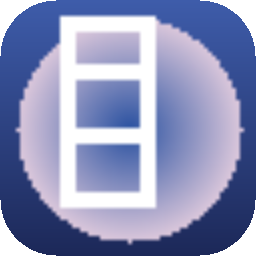
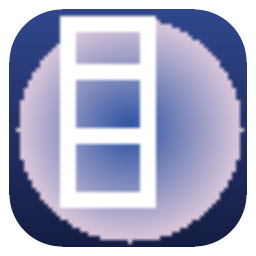
fix(spk): 修复 DSM 7 主菜单应用入口缺失与图标抗锯齿（1.0.11-0001）

diff --git a/docs/index.html b/docs/index.html
@@ -51,6 +51,7 @@
 <table>
   <tr><th>你的机型</th><th>要填的「位置」</th></tr>
   <tr><td>Intel / AMD 64 位机型（apollolake、avoton、braswell、broadwell、bromolow、cedarview、coffeelake、denverton、geminilake、grantley、kvmx64、purley、skylaked、v1000 等）</td><td><code>https://kosje.github.io/agnes-hub-go-DSM/catalog.json</code></td></tr>
+  <tr><td>ARM64 机型（rtd1296、rtd1619、rtd1619b、armada37xx，如 DS223 / DS423 系列）</td><td><code>https://kosje.github.io/agnes-hub-go-DSM/catalog-armv8.json</code></td></tr>
 </table>
 <ol start="5">
   <li>点 <strong>确定</strong></li>
@@ -70,7 +71,8 @@
 <h2>当前版本</h2>
 <table>
   <tr><th>套件</th><th>版本</th><th>架构</th><th>大小</th><th>MD5</th></tr>
-  <tr><td>agnes-hub</td><td>1.0.9-0003</td><td>x86_64</td><td>2.79 MB</td><td><code>c440a30215fb11e94a536bd312be287c</code></td></tr>
+  <tr><td>agnes-hub</td><td>1.0.11-0001</td><td>armv8</td><td>3.15 MB</td><td><code>46f1240bded99a900e103ffea57adddd</code></td></tr>
+  <tr><td>agnes-hub</td><td>1.0.11-0001</td><td>x86_64</td><td>3.49 MB</td><td><code>fb521b1071cac981c43232a4d594627f</code></td></tr>
 </table>
 
 <h2>安装后</h2>
@@ -89,7 +91,8 @@
 
 <h2>手动下载</h2>
 <p>不想加套件源的话，直接下这个文件，再用「套件中心 → 手动安装」装：</p>
-<p><a href="https://kosje.github.io/agnes-hub-go-DSM/agnes-hub-x86_64-1.0.9-0003.spk"><code>agnes-hub-x86_64-1.0.9-0003.spk</code></a>（x86_64，2.79 MB）</p>
+<p><a href="https://kosje.github.io/agnes-hub-go-DSM/agnes-hub-armv8-1.0.11-0001.spk"><code>agnes-hub-armv8-1.0.11-0001.spk</code></a>（armv8，3.15 MB）<br>
+<a href="https://kosje.github.io/agnes-hub-go-DSM/agnes-hub-x86_64-1.0.11-0001.spk"><code>agnes-hub-x86_64-1.0.11-0001.spk</code></a>（x86_64，3.49 MB）</p>
 <p class="sub">这些链接指向本站（GitHub Pages），不经过 GitHub Release 的跳转 ——
 国内网络访问 Release 下载地址常会失败。</p>
 

diff --git a/tools/build_spk.py b/tools/build_spk.py
@@ -46,6 +46,7 @@ import contextlib
 import gzip
 import io
 import json
+import math
 import os
 import re
 import shutil
@@ -97,7 +98,7 @@ PACKAGE_ARCHES = {
 }
 
 # 每次发布 SPK 都必须递增。仍可用 SPK_BUILD 临时覆盖。
-DEFAULT_SPK_BUILD = "2"
+DEFAULT_SPK_BUILD = "1"
 
 DESCRIPTION = (
     "Agnes AI 多账号聚合中转 + RPM 限流排队网关。统一模型 agnes-auto 自动判定"
@@ -239,8 +240,14 @@ esac
 # 安装后建数据目录。群晖在升级时保留 var/，只有卸载才删除整个套件目录。
 POSTINST = '''#!/bin/sh
 PKG_NAME="%APP_ID%"
+PKG_DIR="${SYNOPKG_PKGDEST:-/var/packages/$PKG_NAME/target}"
 VAR_DIR="${SYNOPKG_PKGVAR:-/var/packages/$PKG_NAME/var}"
 mkdir -p "$VAR_DIR/data" 2>/dev/null || true
+
+# 确保 target/ui 与系统 3rdparty 快捷方式软链接建立，保障 DSM 主菜单图标即时出现
+if [ -d "$PKG_DIR/ui" ] && [ -d /usr/syno/synoman/webman/3rdparty ]; then
+  ln -sfn "$PKG_DIR/ui" "/usr/syno/synoman/webman/3rdparty/$PKG_NAME" 2>/dev/null || true
+fi
 exit 0
 '''
 
@@ -474,49 +481,59 @@ def _key_out_black(w, h, px, threshold=16):
     return out
 
 
-# App 图标底色：取自 logo 自身的深蓝色系（最饱和像素是 rgb(46,84,162)）。
+# App 图标底色：取自 logo 自身的深蓝色系（上 rgb(48,70,140) → 下 rgb(20,28,65)）。
 # 上游 logo 是「浅紫渐变圆 + 白色元素」，本来就是配黑底设计的，直接透明化后在
-# DSM 的浅色界面上白色元素会完全消失。补一层圆角方底既保住对比，又符合 App
-# 图标的常见形态。
-ICON_BG_TOP = (62, 92, 170)
-ICON_BG_BOTTOM = (28, 40, 88)
+# DSM 的浅色界面上白色元素会完全消失。补一层微带呼吸内边距和平滑抗锯齿的圆角方底既保住对比，
+# 又完全符合 DSM 桌面 / 套件中心 App 图标规范。
+ICON_BG_TOP = (48, 70, 140)
+ICON_BG_BOTTOM = (20, 28, 65)
 ICON_CORNER_RADIUS = 0.22
 
 
 def _app_icon(w, h, px):
-    """把透明底的 logo 合成到圆角方形底色上，产出可直接使用的 App 图标。
+    """把透明底的 logo 合成到带平滑抗锯齿的圆角方形底色上，产出可直接使用的 App 图标。"""
+    pad = max(1, int(round(min(w, h) * 0.035)))
+    eff_w = w - pad * 2
+    eff_h = h - pad * 2
+    rad = max(1.0, min(eff_w, eff_h) * ICON_CORNER_RADIUS)
 
-    只在「源图无 alpha、靠键控去背」时调用：那种情况下 logo 的原设计对比度
-    依赖黑底，透明化后在浅色界面上不可辨。
-    """
-    rad = max(1, int(min(w, h) * ICON_CORNER_RADIUS))
     out = bytearray(w * h * 4)
     for y in range(h):
-        # 竖直渐变
-        t = y / max(1, h - 1)
-        br = int(round(ICON_BG_TOP[0] + (ICON_BG_BOTTOM[0] - ICON_BG_TOP[0]) * t))
-        bg = int(round(ICON_BG_TOP[1] + (ICON_BG_BOTTOM[1] - ICON_BG_TOP[1]) * t))
-        bb = int(round(ICON_BG_TOP[2] + (ICON_BG_BOTTOM[2] - ICON_BG_TOP[2]) * t))
         for x in range(w):
-            # 圆角：四个角各取一个圆心做距离判断
-            cx = cy = None
-            if x < rad and y < rad:
-                cx, cy = rad, rad
-            elif x >= w - rad and y < rad:
-                cx, cy = w - rad - 1, rad
-            elif x < rad and y >= h - rad:
-                cx, cy = rad, h - rad - 1
-            elif x >= w - rad and y >= h - rad:
-                cx, cy = w - rad - 1, h - rad - 1
-            if cx is not None and (x - cx) ** 2 + (y - cy) ** 2 > rad * rad:
+            if x < pad or x >= w - pad or y < pad or y >= h - pad:
                 continue
+
+            rx = x - pad
+            ry = y - pad
+            t = ry / max(1, eff_h - 1)
+            br = int(round(ICON_BG_TOP[0] + (ICON_BG_BOTTOM[0] - ICON_BG_TOP[0]) * t))
+            bg = int(round(ICON_BG_TOP[1] + (ICON_BG_BOTTOM[1] - ICON_BG_TOP[1]) * t))
+            bb = int(round(ICON_BG_TOP[2] + (ICON_BG_BOTTOM[2] - ICON_BG_TOP[2]) * t))
+
+            cx = cy = None
+            if rx < rad and ry < rad:
+                cx, cy = rad, rad
+            elif rx >= eff_w - rad and ry < rad:
+                cx, cy = eff_w - rad - 1, rad
+            elif rx < rad and ry >= eff_h - rad:
+                cx, cy = rad, eff_h - rad - 1
+            elif rx >= eff_w - rad and ry >= eff_h - rad:
+                cx, cy = eff_w - rad - 1, eff_h - rad - 1
+
+            corner_alpha = 1.0
+            if cx is not None:
+                d = math.hypot(rx - cx, ry - cy)
+                if d > rad + 0.5:
+                    continue
+                elif d > rad - 0.5:
+                    corner_alpha = max(0.0, min(1.0, rad + 0.5 - d))
 
             i = (y * w + x) * 4
             a = px[i + 3] / 255.0
             out[i] = int(round(px[i] * a + br * (1 - a)))
             out[i + 1] = int(round(px[i + 1] * a + bg * (1 - a)))
             out[i + 2] = int(round(px[i + 2] * a + bb * (1 - a)))
-            out[i + 3] = 255
+            out[i + 3] = int(round(255 * corner_alpha))
     return out
 
 
@@ -620,14 +637,17 @@ def _add_dir_recursive(tar, full, arc, exec_prefixes=("scripts/",)):
             _add_file(tar, cfull, carc, mode)
 
 
-def build_package_tgz(binary_path, out_path):
-    """内层 package.tgz：只放本架构的二进制，解压后位于 SYNOPKG_PKGDEST 根下。
+def build_package_tgz(binary_path, ui_dir, out_path):
+    """内层 package.tgz：放本架构的二进制及 DSM UI 目录，解压后位于 SYNOPKG_PKGDEST 根下。
 
-    群晖官方明确要求不要把多平台二进制打进同一个 spk，所以这里只有一份。
+    群晖官方规范要求：dsmuidir="ui" 指向 package.tgz 解压到 target 后的相对目录，
+    DSM 安装服务据此将 target/[dsmuidir] 链接到 /usr/syno/synoman/webman/3rdparty/ 下以显示主菜单图标。
     """
     buf = io.BytesIO()
     with _tar_gz_writer(buf) as tar:
         _add_file(tar, binary_path, "agnes-hub-go", mode=0o755)
+        if os.path.isdir(ui_dir):
+            _add_dir_recursive(tar, ui_dir, "ui")
     data = buf.getvalue()
     with open(out_path, "wb") as f:
         f.write(data)
@@ -700,12 +720,36 @@ def prepare_arch(arch, binary_src, spk_ver, icon_src):
     for sub in (scripts_dir, conf_dir):
         os.makedirs(sub, exist_ok=True)
 
-    # 1. 内层包
+    # 1. DSM 桌面图标（ui/）
+    #    只有 INFO 里的 dsmuidir/dsmappname 还不够，必须有 ui/config 把这个
+    #    「应用」定义出来 —— 且该目录必须打进 package.tgz（由 dsmuidir="ui" 指定并由 DSM 软链接），
+    #    这样安装后 DSM 桌面和主菜单上才能正常显示图标和快捷方式。
+    #    图标要成套给：参考的真实套件（synoedit / wol-spk）都提供 16/24/32/48/
+    #    64/72/128/256 多种尺寸，config 里用 images/icon_{0}.png 让 DSM 按需取。
+    ui_dir = os.path.join(d, "ui")
+    ui_images = os.path.join(ui_dir, "images")
+    os.makedirs(ui_images, exist_ok=True)
+    make_icon_set(icon_src, [(n, os.path.join(ui_images, "icon_%d.png" % n))
+                             for n in DSM_ICON_SIZES])
+    with open(os.path.join(ui_dir, "config"), "w", encoding="utf-8", newline="\n") as f:
+        json.dump({".url": {DSM_APP_NAME: {
+            "title": "Agnes Hub",
+            "desc": "Agnes AI 多账号聚合中转 + RPM 限流排队网关",
+            "icon": "images/icon_{0}.png",
+            "type": "url",
+            "protocol": "http",
+            "port": str(SERVICE_PORT),
+            "url": DSM_APP_URL,
+            "allUsers": True,
+        }}}, f, ensure_ascii=False, indent=4)
+        f.write("\n")
+
+    # 2. 内层包：包含二进制以及 ui/ 目录
     pkg_tgz = os.path.join(d, "package.tgz")
-    pkg_data = build_package_tgz(binary_src, pkg_tgz)
+    pkg_data = build_package_tgz(binary_src, ui_dir, pkg_tgz)
     md5 = hashlib.md5(pkg_data).hexdigest()
 
-    # 2. 生命周期脚本：六个钩子必须全部存在，缺一个会被判「套件损坏」
+    # 3. 生命周期脚本：六个钩子必须全部存在，缺一个会被判「套件损坏」
     _write(os.path.join(scripts_dir, "start-stop-status"),
            START_STOP_STATUS.replace("%APP_ID%", APP_ID).replace("%PORT%", str(SERVICE_PORT)))
     _write(os.path.join(scripts_dir, "postinst"), POSTINST.replace("%APP_ID%", APP_ID))
@@ -713,7 +757,7 @@ def prepare_arch(arch, binary_src, spk_ver, icon_src):
     for name in ("preinst", "preuninst", "postuninst", "preupgrade"):
         _write(os.path.join(scripts_dir, name), TRIVIAL)
 
-    # 3. conf：privilege 决定运行身份，缺失会被拒绝安装。
+    # 4. conf：privilege 决定运行身份，缺失会被拒绝安装。
     #    run-as: package = 以套件专用账户运行（非 root）。本服务监听 4142（>1024）、
     #    不需要 chown 系统文件，因此完全不需要 root，符合最小权限。
     with open(os.path.join(conf_dir, "privilege"), "w", encoding="utf-8", newline="\n") as f:
@@ -725,32 +769,9 @@ def prepare_arch(arch, binary_src, spk_ver, icon_src):
         json.dump({}, f, ensure_ascii=False, indent=2)
         f.write("\n")
 
-    # 4. 图标
+    # 5. 套件图标（外层 PACKAGE_ICON*.PNG）
     make_icons(icon_src, os.path.join(d, "PACKAGE_ICON.PNG"),
                os.path.join(d, "PACKAGE_ICON_256.PNG"))
-
-    # 5. DSM 桌面图标（ui/）
-    #    只有 INFO 里的 dsmuidir/dsmappname 还不够，必须有 ui/config 把这个
-    #    「应用」定义出来 —— 否则套件只出现在套件中心，DSM 桌面上不会有图标。
-    #    图标要成套给：参考的真实套件（synoedit / wol-spk）都提供 16/24/32/48/
-    #    64/72/256 多种尺寸，config 里用 images/icon_{0}.png 让 DSM 按需取。
-    ui_images = os.path.join(d, "ui", "images")
-    os.makedirs(ui_images, exist_ok=True)
-    make_icon_set(icon_src, [(n, os.path.join(ui_images, "icon_%d.png" % n))
-                             for n in DSM_ICON_SIZES])
-    with open(os.path.join(d, "ui", "config"), "w", encoding="utf-8", newline="\n") as f:
-        json.dump({".url": {DSM_APP_NAME: {
-            "title": "Agnes Hub",
-            "desc": "Agnes AI 多账号聚合中转 + RPM 限流排队网关",
-            "icon": "images/icon_{0}.png",
-            "type": "url",
-            "protocol": "http",
-            "port": str(SERVICE_PORT),
-            "url": DSM_APP_URL,
-            "allUsers": True,
-            "grantPrivilege": "local",
-        }}}, f, ensure_ascii=False, indent=4)
-        f.write("\n")
 
     # 6. INFO
     extractsize_kb = (os.path.getsize(binary_src) + 1023) // 1024
@@ -820,6 +841,11 @@ def validate_spk(path):
                 raise ValueError("%s 不可执行" % script)
 
         with tarfile.open(fileobj=io.BytesIO(package_data), mode="r:gz") as inner:
+            inner_members = {m.name for m in inner.getmembers()}
+            if "agnes-hub-go" not in inner_members:
+                raise ValueError("package.tgz 缺少 agnes-hub-go 二进制")
+            if "ui/config" not in inner_members:
+                raise ValueError("package.tgz 缺少 ui/config，DSM 将无法在主菜单显示快捷方式")
             binary = inner.getmember("agnes-hub-go")
             if binary.mode & 0o111 == 0:
                 raise ValueError("package.tgz 中的 agnes-hub-go 不可执行")

diff --git a/tools/build_catalog.py b/tools/build_catalog.py
@@ -52,10 +52,10 @@ PRIMARY_ARCH = "x86_64"
 
 # 套件中心里显示的变更说明（HTML）。发新版时改这里。
 CHANGELOG = (
-    "修复图标观感与桌面集成。<br>"
-    "· 图标补上圆角方形底色，在浅色界面上清晰可辨（原来透明化后白色元素会消失）<br>"
-    "· 补全 DSM 7 的 dsmapppage / dsmapplaunchname 字段，并配齐 8 种尺寸的桌面图标<br>"
-    "· 恢复套件中心的「打开」按钮"
+    "同步上游 1.0.11 特性与修复，彻底修复 DSM 桌面与主菜单图标。<br>"
+    "· 修复主菜单与桌面应用显示：将 ui/config 打入 package.tgz 内部，解决安装后主菜单找不到套件的根本缺陷<br>"
+    "· 升级图标渲染算法：新增圆角呼吸边距与抗锯齿处理，在浅色/深色主题下均清晰细腻<br>"
+    "· 同步上游 1.0.11：修复 AMD 空响应体、软粘性会话绑定模型判定，新增账号编辑完整弹窗与优先级支持"
 )
 
 CATALOG_FIELDS_NOTE = "SynoCommunity/spkrepo 的 build_entry_data 与 sspks 的字段清单"
